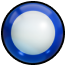
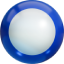
fix: align number center in ball

Changed region(s): [[0.0, 0.0, 1.0, 1.0]]

diff --git a/src/components/game-components/ball/ball.module.scss b/src/components/game-components/ball/ball.module.scss
@@ -5,11 +5,13 @@ $show-number-delay-time: 1s;
 
 $loading-duration: 2s;
 
+$ball-size: 3.2rem;
+
 .ball {
     position: relative;
     z-index: 1;
-    width: 3rem;
-    height: 3rem;
+    width: $ball-size;
+    height: $ball-size;
     border-radius: 50%;
     border: 1px solid #9c9c9c;
 
@@ -45,25 +47,22 @@ $loading-duration: 2s;
 }
 
 .red {
-    --bg: url("/static/images/ball/ball-red.png?v=2") no-repeat;
+    --bg: url("/static/images/ball/ball-red.png?v=3") no-repeat;
 }
 
 .blue {
-    --bg: url("/static/images/ball/ball-blue.png?v=2") no-repeat;
+    --bg: url("/static/images/ball/ball-blue.png?v=3") no-repeat;
 }
 
 .ball-bg {
     position: relative;
-    top: -0.1rem;
-    left: -0.1rem;
     z-index: 2;
     display: flex;
     justify-content: center;
     align-items: center;
-    width: 3rem;
-    height: 3rem;
+    width: 100%;
+    height: 100%;
     border-radius: 50%;
-    background-size: 3rem 3rem;
     transform-origin: center center;
     opacity: 0;
     animation: fade-in $show-number-duration $show-number-delay-time ease-in-out forwards;
@@ -77,12 +76,14 @@ $loading-duration: 2s;
         content: "";
         display: block;
         position: absolute;
-        top: -0.1rem;
-        left: -0.1rem;
-        width: 3.2rem;
-        height: 3.2rem;
+        left: -0.2rem;
+        top: -0.2rem;
+        bottom: -0.2rem;
+        right: -0.2rem;
         background: var(--bg);
         background-size: contain;
+        border-radius: 50%;
+        border: 0.1rem solid #000;
     }
 }
 

diff --git a/src/games/bac-ball/bac-ball.module.scss b/src/games/bac-ball/bac-ball.module.scss
@@ -18,7 +18,9 @@
 .ball-container {
     display: flex;
     justify-content: center;
+    align-items: center;
     gap: 0.6rem;
+    height: 3.2rem;
     margin-top: -0.4rem;
 }
 
